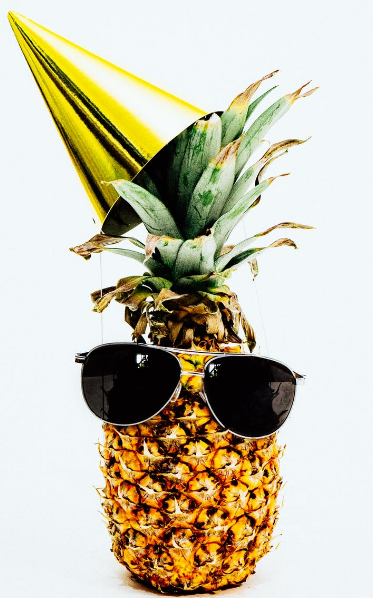
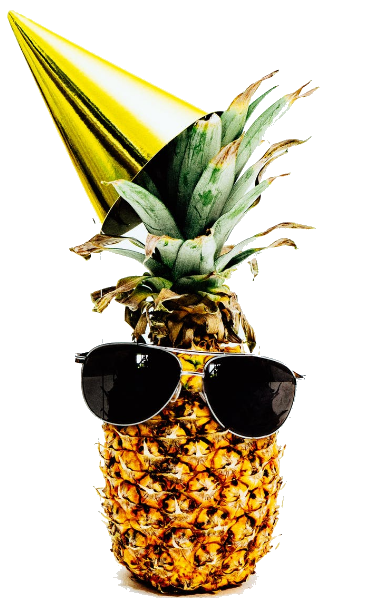
new styling

diff --git a/src/app/editfood/editfood.component.css b/src/app/editfood/editfood.component.css
@@ -32,23 +32,29 @@ form {
   height: 650px;
   padding-left: 4px;
   padding: 20px;
-
   border: 7px solid white;
   border-radius: 4px;
   margin-top: 90px;
   background: linear-gradient(
-    0deg,
-    rgba(233, 228, 228, 0.5),
-    rgba(236, 232, 232, 0.5)
-  );
-  /* url("assets/ananas.jpeg"); */
-  /* url("https://images.pexels.com/photos/1161547/pexels-photo-1161547.jpeg?auto=compress&cs=tinysrgb&dpr=1&w=500"); */
-  background-size: cover;
+      0deg,
+      rgba(233, 228, 228, 0.5),
+      rgba(236, 232, 232, 0.5)
+    ),
+    url("https://images.pexels.com/photos/1161547/pexels-photo-1161547.jpeg?auto=compress&cs=tinysrgb&dpr=1&w=500");
+  background-size: 100% 100%;
+  display: flex;
+  flex-direction: column;
+  justify-content: center;
+  align-items: center;
   border: 2px solid black;
 }
 /* div {
   margin: 20px;
 } */
+form > div {
+  width: 90%;
+  max-width: 700px;
+}
 label {
   display: block;
   padding: 5px;
@@ -58,7 +64,7 @@ label {
   font-size: 22px;
 }
 input {
-  width: 92%;
+  width: 100%;
   height: 30px;
   padding: 8px;
   border-radius: 7px;
@@ -69,17 +75,16 @@ input {
 }
 .error {
   color: #df3737;
-  /* margin-top: 3px; */
   font-size: 20px;
 }
 button {
+  display: block;
+  margin: auto;
   margin-block: 1.5em;
-  margin-left: 22%;
   background-color: #3ab54a;
   border-radius: 28px;
   border: 1px solid #18ab29;
-  display: inline-block;
-  cursor: pointer;
+
   color: #ffffff;
   font-family: Arial;
   font-size: 20px;
@@ -89,8 +94,12 @@ button {
   text-shadow: 0px 1px 0px #2f6627;
 }
 
-button:hover {
+button:enabled:hover {
   background-color: #5cbf2a;
+  box-shadow: rgba(0, 0, 0, 0.35) 0px 5px 15px;
+  cursor: pointer;
+}
+button:hover {
   box-shadow: rgba(0, 0, 0, 0.35) 0px 5px 15px;
 }
 button:active {
@@ -121,13 +130,26 @@ span {
 img {
   max-width: 100px;
 }
+.pbuttom {
+  display: flex;
+  justify-content: space-between;
+  flex-direction: row;
+}
 .buttom {
   font-size: 3rem;
   line-height: 50px;
   margin-left: 20px;
   font-family: "Mochiy Pop P One", sans-serif;
+  /* font-family: "Dancing Script", cursive; */
+
+  /* font-family: "Pacifico", cursive; */
+
+  font-family: "Work Sans", sans-serif;
+
+  position: relative;
 }
 .dish {
   border-radius: 50%;
   margin-left: 100px;
+  position: absolute;
 }

diff --git a/src/app/addfood/addfood.component.css b/src/app/addfood/addfood.component.css
@@ -15,20 +15,20 @@
   font-size: 25px;
   font-weight: lighter;
   font-style: italic;
-  font-family: "Pacifico", cursive;
+  /* font-family: "Pacifico", cursive; */
+  font-family: "Dancing Script", cursive;
+  font-family: "Work Sans", sans-serif;
   padding-top: 1em;
   text-align: center;
 }
 
 form {
-  width: 60%;
+  width: 50%;
   height: 650px;
-  /* margin: auto; */
   padding-left: 4px;
   padding: 20px;
   font-size: 22px;
   border: 7px solid white;
-  /* border-bottom: none; */
   border-radius: 4px;
   margin-top: 50px;
   background: linear-gradient(
@@ -52,7 +52,6 @@ label {
   display: block;
   padding: 5px;
   font-size: 25px;
-  /* margin-bottom: 5px; */
   font-family: "Mochiy Pop P One", sans-serif;
   margin: 7px;
 }
@@ -78,7 +77,7 @@ button {
   background-color: #3ab54a;
   border-radius: 28px;
   border: 1px solid #18ab29;
-  cursor: pointer;
+
   color: #ffffff;
   font-family: Arial;
   font-size: 20px;
@@ -87,9 +86,16 @@ button {
   text-decoration: none;
   text-shadow: 0px 1px 0px #2f6627;
 }
-
-button:hover {
+/* button:enabled {
   background-color: #5cbf2a;
+  box-shadow: rgba(71, 67, 67, 0.35) 0px 5px 15px;
+} */
+button:enabled:hover {
+  background-color: #5cbf2a;
+  box-shadow: rgba(0, 0, 0, 0.35) 0px 5px 15px;
+  cursor: pointer;
+}
+button:hover {
   box-shadow: rgba(0, 0, 0, 0.35) 0px 5px 15px;
 }
 button:active {
@@ -100,14 +106,9 @@ span {
   font-size: 15px;
   font-weight: bold;
 }
-img {
-}
-/* .moving > p {
-  margin-bottom: 10px;
-} */
 
 .moving {
-  width: 10%;
+  width: 13%;
   display: inline-block;
   font-family: "Rammetto One", cursive;
   font-size: 25px;
@@ -141,14 +142,3 @@ img {
     transform: translateY(-100%);
   }
 }
-/* .move {
-  position: absolute;
-  line-height: 20px;
-  top: 0;
-  left: 0;
-  animation-name: move2;
-  animation-duration: 3s;
-  animation-timing-function: linear;
-  animation-iteration-count: infinite;
-  animation-direction: alternate-reverse;
-} */

diff --git a/src/app/editfood/editfood.component.html b/src/app/editfood/editfood.component.html
@@ -55,12 +55,14 @@
     <button [disabled]="healthyFoodForm.invalid">Done</button>
   </form>
   <div class="text">
-    <h1 class="grean">eat<img src="assets/fruit.PNG" /> right,</h1>
+    <h1 class="grean">eat<img src="assets/fruit.png" /> right,</h1>
     <h1 class="black">feel great</h1>
-    <p class="buttom">
-      Exactly what you<br />
-      need to know!
-      <img class="dish" src="assets/dish.jpg" />
-    </p>
+    <div class="pbuttom">
+      <p class="buttom">
+        Exactly what you<br />
+        need to know!
+        <img class="dish" src="assets/dish.jpg" />
+      </p>
+    </div>
   </div>
 </div>

diff --git a/src/index.html b/src/index.html
@@ -17,6 +17,12 @@
       href="https://fonts.googleapis.com/css2?family=Work+Sans:wght@500&display=swap"
       rel="stylesheet"
     />
+    <link rel="preconnect" href="https://fonts.googleapis.com" />
+    <link rel="preconnect" href="https://fonts.gstatic.com" crossorigin />
+    <link
+      href="https://fonts.googleapis.com/css2?family=Dancing+Script&family=Josefin+Sans:wght@100&family=Pacifico&family=Prompt:wght@100&family=Work+Sans:wght@500&display=swap"
+      rel="stylesheet"
+    />
     <link rel="icon" type="image/x-icon" href="favicon.ico" />
   </head>
   <body>

diff --git a/src/app/all-foods/all-foods.component.css b/src/app/all-foods/all-foods.component.css
@@ -7,19 +7,7 @@
   justify-content: space-between;
   align-items: center;
 }
-header {
-  width: 100%;
-}
-.head {
-  text-align: center;
-  background-color: #232a34;
-  color: rgb(255, 255, 255);
-  margin: 0 auto;
-  width: 80%;
-  /* padding: 0.1px 2%; */
-  padding-block: 1em;
-  border-radius: 0 0 2% 2%;
-}
+
 #videoBG {
   width: 100vw;
   height: 100%;

diff --git a/src/app/app.component.html b/src/app/app.component.html
@@ -1,4 +1,10 @@
-<div>
-  <router-outlet></router-outlet>
+<div class="all-container">
+  <header>
+    <div class="head">
+      <h1><i class="fas fa-carrot i"></i> Healthy Food</h1>
+    </div>
+  </header>
+  <div class="components">
+    <router-outlet></router-outlet>
+  </div>
 </div>
-<!-- ext:mp4 -->

diff --git a/src/app/app.component.css b/src/app/app.component.css
@@ -1,3 +1,17 @@
-div {
+.components {
   height: 100%;
 }
+header {
+  width: 100%;
+}
+.head {
+  text-align: center;
+  background-color: #232a34;
+  color: rgb(255, 255, 255);
+  margin: 0 auto;
+  width: 80%;
+  /* padding: 0.1px 2%; */
+  padding-block: 1em;
+  border-radius: 0 0 2% 2%;
+}
+/*   */

diff --git a/src/app/all-foods/all-foods.component.html b/src/app/all-foods/all-foods.component.html
@@ -1,11 +1,5 @@
 <!-- the home -->
 <div class="home-container">
-  <header>
-    <div class="head">
-      <h1><i class="fas fa-carrot i"></i> Healthy Food</h1>
-    </div>
-  </header>
-
   <video
     id="videoBG"
     src="assets/video1.mp4"
